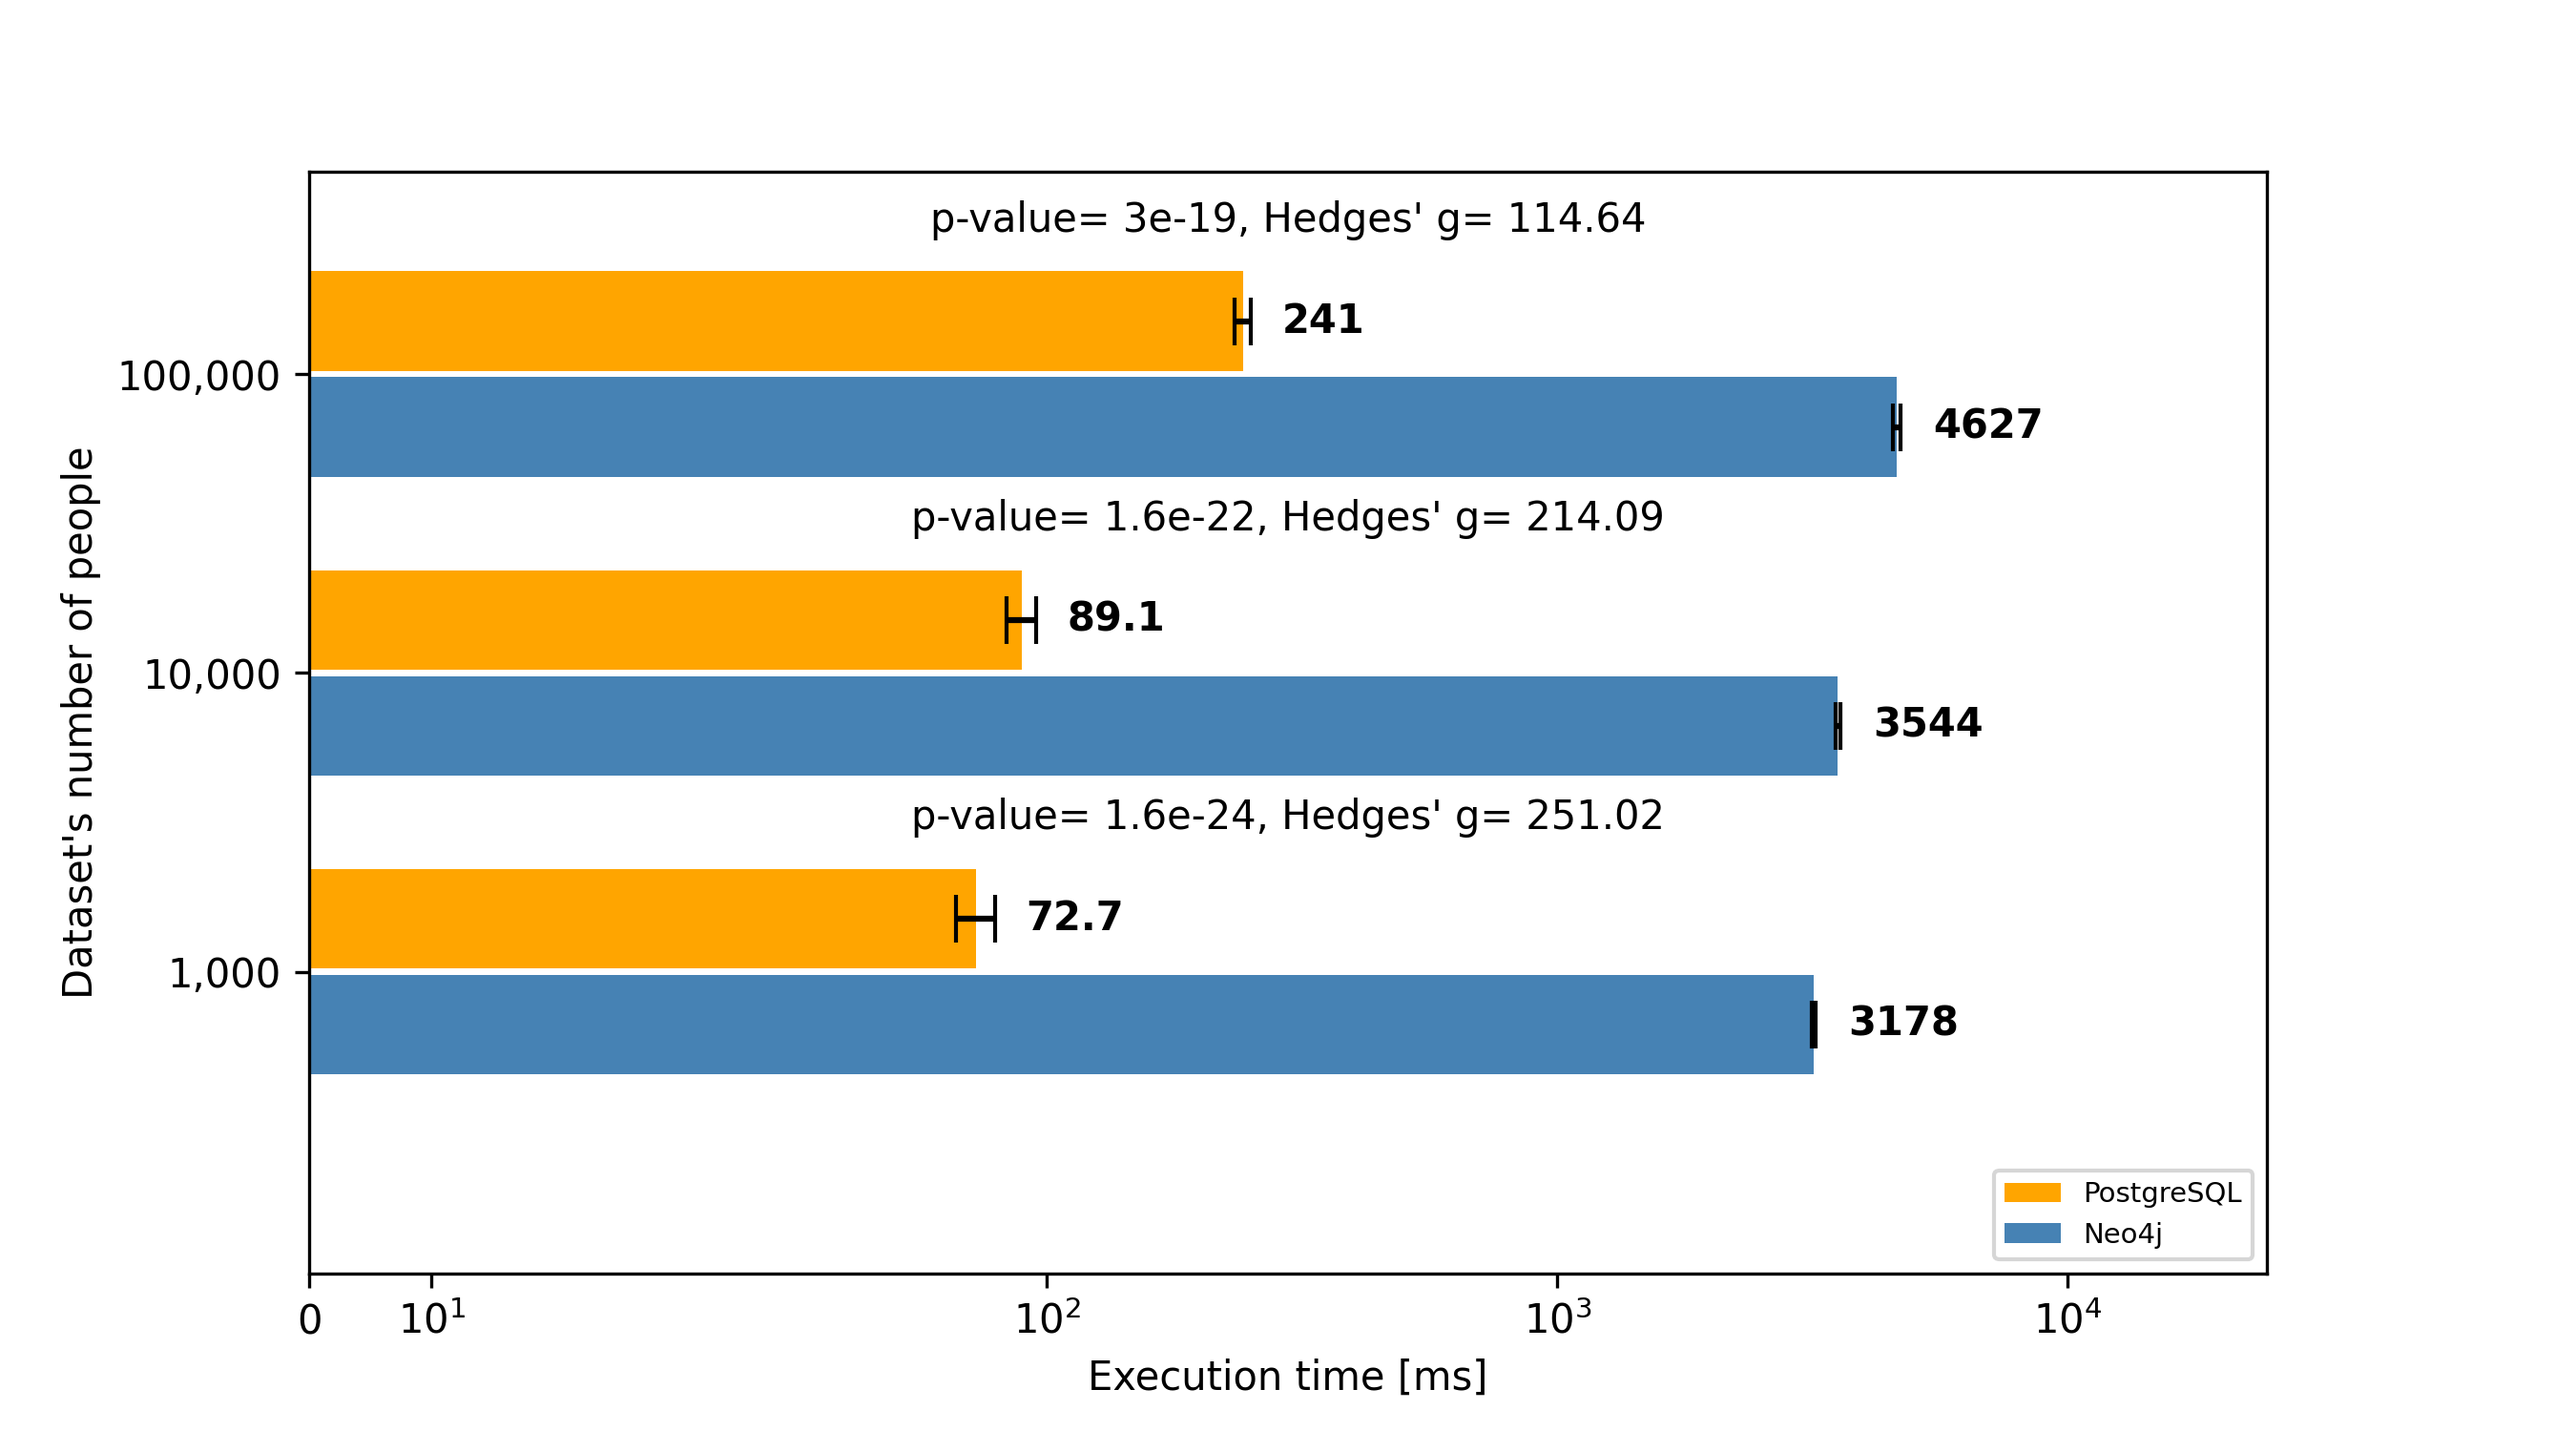
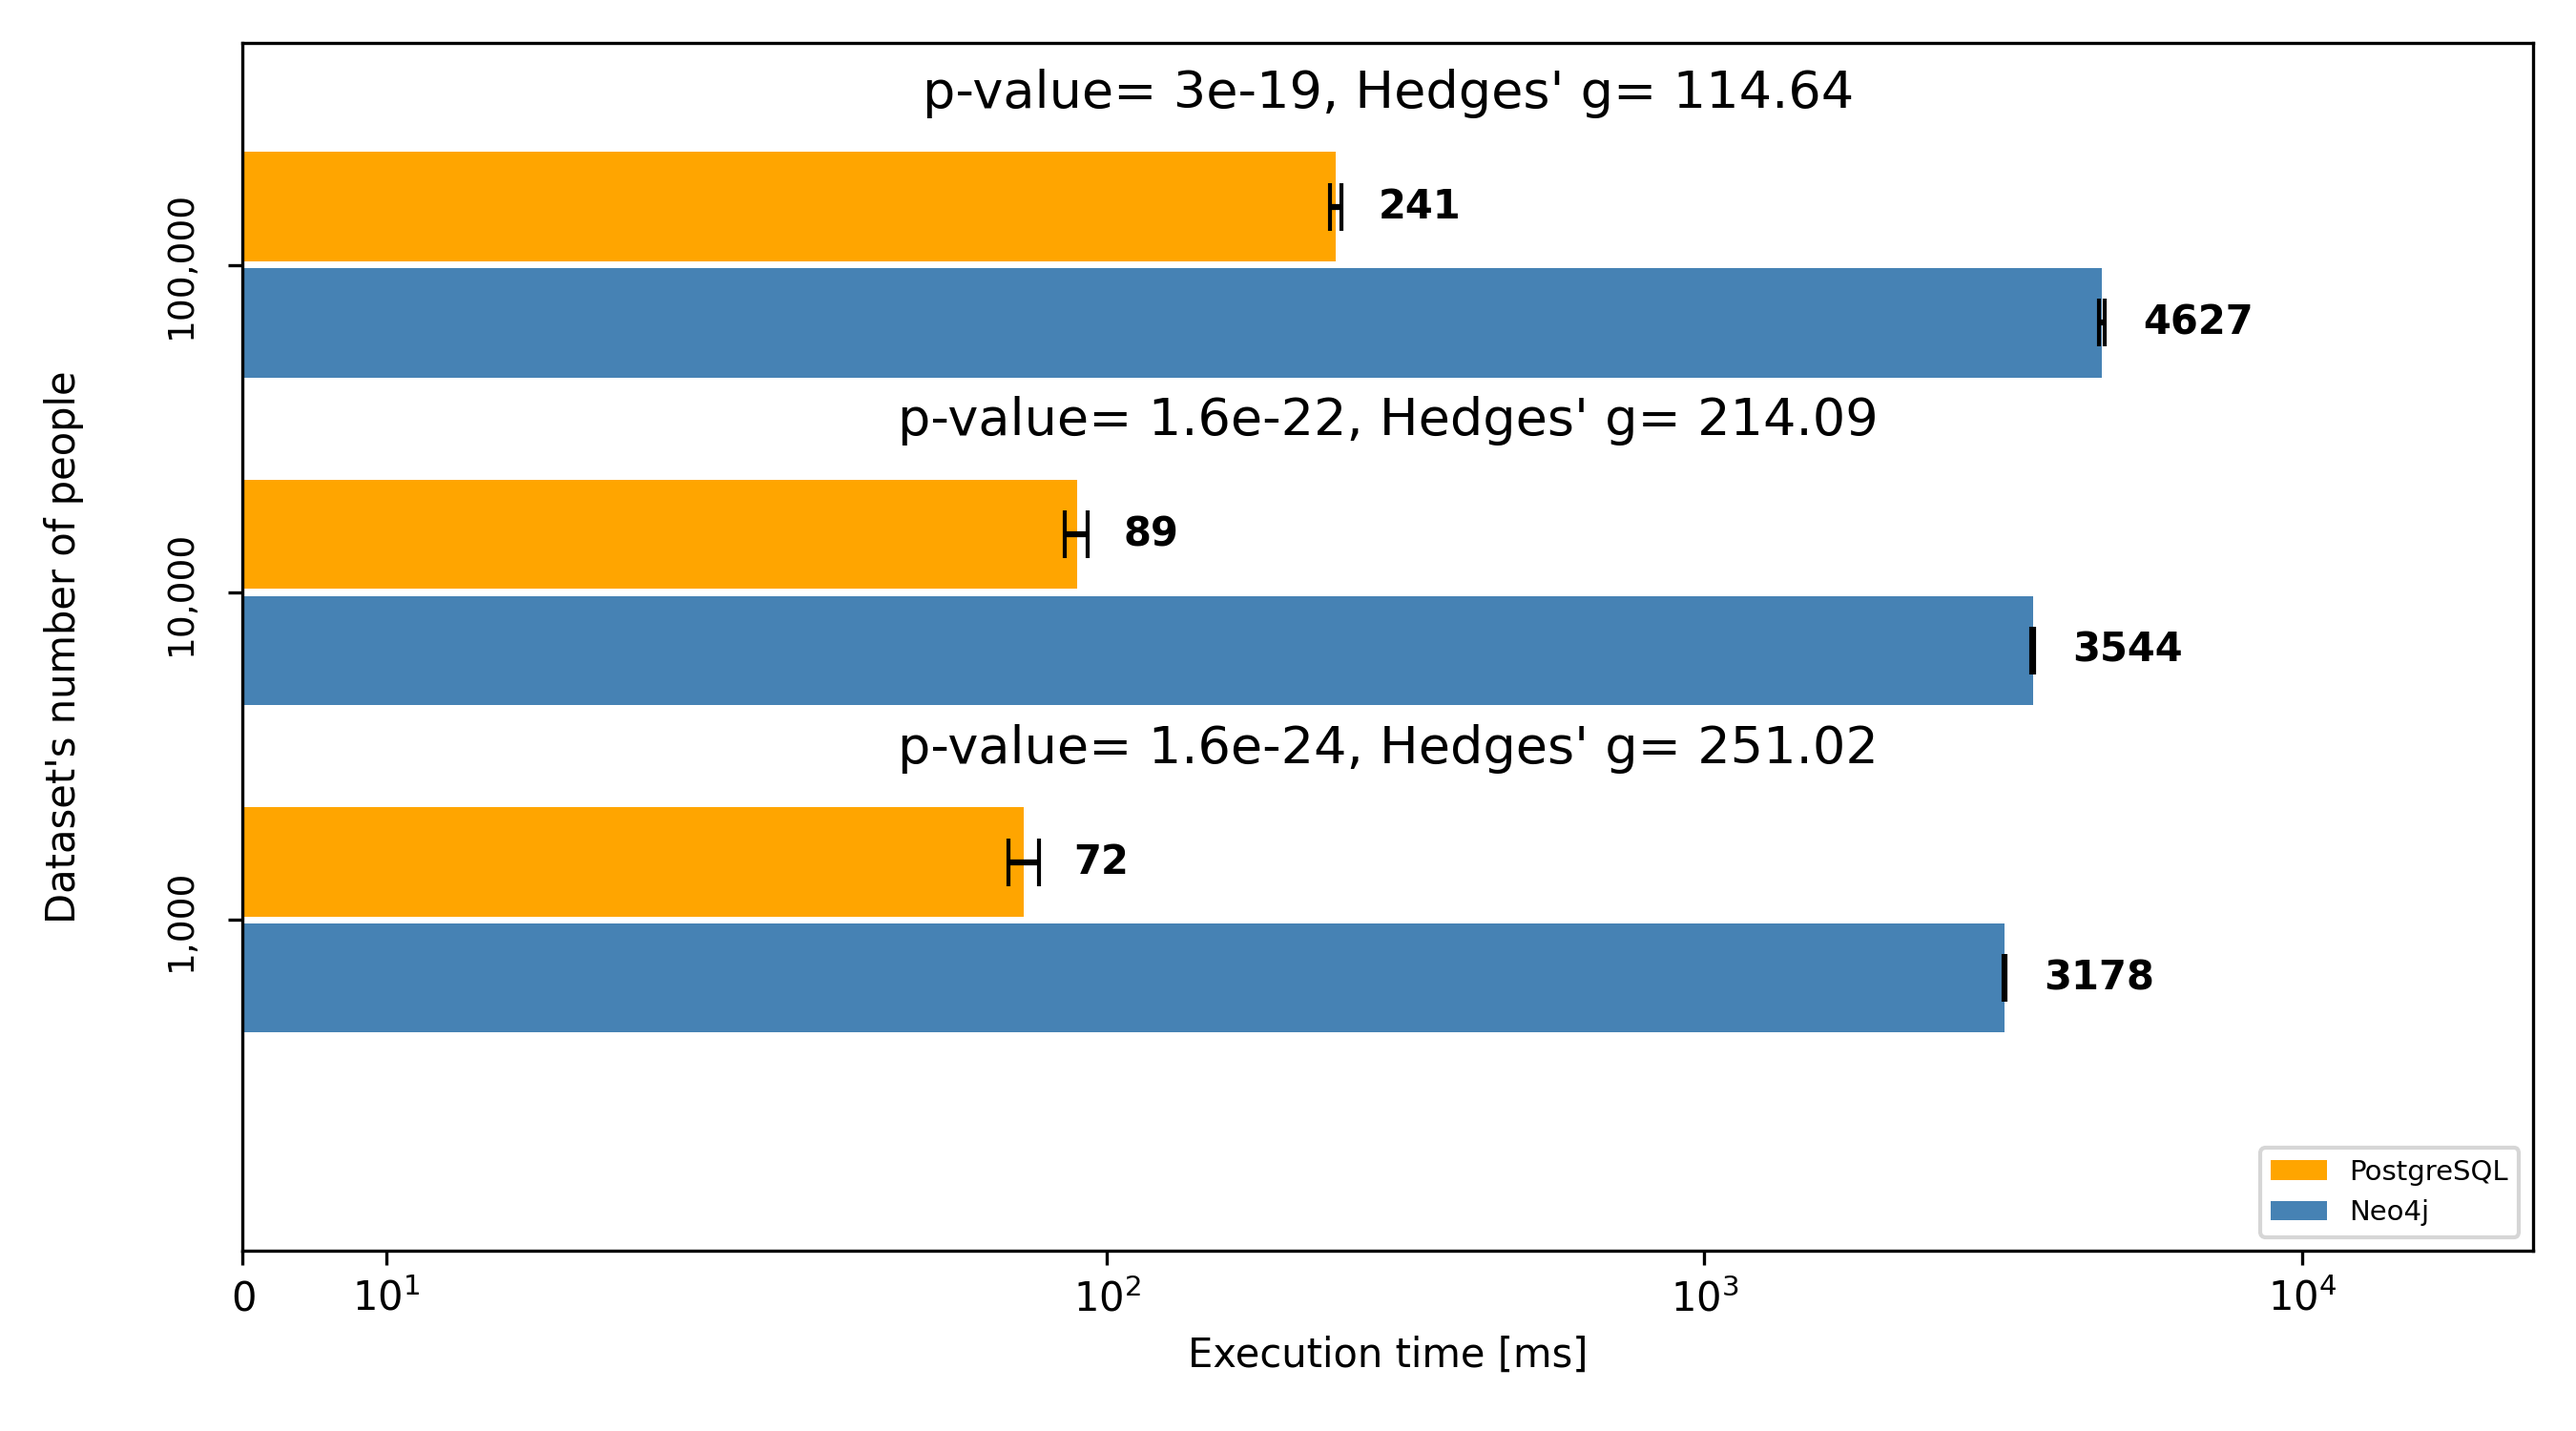
memory calculation method change; plot display change
> 95% CI error display on plots
> proper import of mem data

diff --git a/analysis_scr/scr.py b/analysis_scr/scr.py
@@ -66,8 +66,7 @@ def tukey_upper_filter(values, k=1.5, return_mask=False):
     return (filtered, mask) if return_mask else filtered
 
 def summarize_values(values):
-    filtered = tukey_upper_filter(values)
-    n = len(filtered)
+    n = len(values)
 
     if n == 0:
         return {
@@ -77,9 +76,9 @@ def summarize_values(values):
             "std": np.nan,
         }
 
-    mean = np.mean(filtered)
+    mean = np.mean(values)
 
-    std = np.std(filtered, ddof=1) if n > 1 else 0.0
+    std = np.std(values, ddof=1) if n > 1 else 0.0
 
     error = std / np.sqrt(n) if n > 1 else 0.0
 
@@ -89,19 +88,6 @@ def summarize_values(values):
         "error": error,
         "std": std,
     }
-
-def remove_outliers_from_dataframe(df, value_column="mean", k=1.5):
-    values = df[value_column].to_numpy(dtype=float)
-
-    finite_mask = np.isfinite(values)
-    filtered_values, retained_mask = tukey_upper_filter(
-        values[finite_mask], k=k, return_mask=True
-    )
-
-    full_mask = np.zeros(len(df), dtype=bool)
-    full_mask[np.where(finite_mask)[0]] = retained_mask
-
-    return df.loc[full_mask].reset_index(drop=True)
 
 def load_raw_folder(pattern, n_files, value_column=4):
     if value_column not in (4, 5):
@@ -124,7 +110,38 @@ def load_raw_folder(pattern, n_files, value_column=4):
                     f"cannot read column {value_column}."
                 )
 
-            series = pd.to_numeric(df.iloc[:, col_idx], errors="coerce").dropna()
+
+            iterations = pd.to_numeric(df.iloc[:, 0], errors="coerce")
+
+
+            df = df[(iterations >= 11) & (iterations <= 41)].copy()
+
+            type_col = df.iloc[:, 2].astype(str)
+
+            selected_parts = []
+
+            for iteration in range(11, 42):
+                iter_df = df[df.iloc[:, 0] == iteration]
+
+                if iter_df.empty:
+                    continue
+
+
+                measurements = iter_df[iter_df.iloc[:, 2].astype(str) == "Measurement"]
+
+
+                abc_rows = iter_df[iter_df.iloc[:, 2].astype(str) == "IterationCleanup"]
+                first_abc = abc_rows.iloc[[0]] if not abc_rows.empty else iter_df.iloc[0:0]
+
+                selected_parts.append(measurements)
+                selected_parts.append(first_abc)
+
+            selected = pd.concat(selected_parts, ignore_index=True)
+
+            series = pd.to_numeric(
+                selected.iloc[:, col_idx],
+                errors="coerce"
+            ).dropna()
 
             if series.empty:
                 raise ValueError(
@@ -178,12 +195,19 @@ def load_summary_folder(pattern, n):
         try:
             df = pd.read_csv(path)
             row = df.iloc[0]
+
+            n_samp = int(row["IterationCount"])
+            mean = parse_with_unit(row["Mean"])
+            std = parse_with_unit(row["StdDev"])
+            tcrit = t_dist.ppf(0.975, n_samp -1)
+            ci95 = tcrit * std / np.sqrt(n_samp)
+
             results.append({
                 "file": path.name,
-                "n": int(row["IterationCount"]),
-                "mean": parse_with_unit(row["Mean"]),
-                "error": parse_with_unit(row["Error"]),
-                "std": parse_with_unit(row["StdDev"])
+                "n": n_samp,
+                "mean": mean,
+                "error": ci95,
+                "std": std
             })
         except Exception as e:
             print(f"Failed to load {path}: {e}")
@@ -289,10 +313,7 @@ def plot_multi_benchmark_report(
     os.makedirs(output_dir, exist_ok=True)
 
     def fmt_sig(x):
-        if abs(x) < 10:
-            return f"{x:.1f}"
-        else:
-            return f"{x:g}"
+        return f"{x:.1f}"
 
     def _plot(font_offset=0, show_stats=True, suffix=""):
         n_pairs = len(dtrps)
@@ -316,7 +337,7 @@ def plot_multi_benchmark_report(
 
                 unit, scale = choose_display_unit(flat_values)
 
-                all_means, all_errs = [], []
+                all_means, all_errs, all_stds = [], [], []
                 y_positions, pair_centers = [], []
 
                 colors = {"n4j": "steelblue", "pst": "orange"}
@@ -332,6 +353,8 @@ def plot_multi_benchmark_report(
                     mean_B = row["mean_B"] * scale
                     err_A = row["error_A"] * scale
                     err_B = row["error_B"] * scale
+                    std_A = row["std_A"] * scale
+                    std_B = row["std_B"] * scale
 
                     y_A = y
                     y_B = y + inner_gap
@@ -341,28 +364,32 @@ def plot_multi_benchmark_report(
 
                     all_means += [mean_A, mean_B]
                     all_errs += [err_A, err_B]
+                    all_stds += [std_A, std_B]
 
                     y += group_gap
 
                 bars = ax.barh(
                     y_positions,
                     all_means,
-                    xerr=all_errs,
+                    xerr=all_stds,
                     capsize=6,
                     color=[colors["n4j"], colors["pst"]] * n_pairs
                 )
 
-                ax.set_xscale("symlog", linthresh=max(all_means) * 0.01)
+                if i in (1, 2, 7, 8):
+                    ax.set_xscale("linear")
+                else:
+                    ax.set_xscale("symlog", linthresh=max(all_means) * 0.01)
                 ax.margins(x=0.23, y=0.15)
                 ax.set_xlim(left=0)
 
                 for bar, mean, err in zip(bars, all_means, all_errs):
-                    x = bar.get_width() + err + (bar.get_width() * 0.16)
+                    x = bar.get_width() + err*1.2 + (bar.get_width() * 0.16)
                     y = bar.get_y() + bar.get_height() / 2
 
                     ax.text(
                         x, y,
-                        f"{mean:.1f}" if mean < 100 else f"{int(mean)}",
+                        f"{mean:.1f}" if not importDt else f"{int(mean)}",
                         ha="left",
                         va="center",
                         fontsize=10 + font_offset,
@@ -394,7 +421,7 @@ def plot_multi_benchmark_report(
                             transform=ax.get_yaxis_transform(),
                             ha="center",
                             va="bottom",
-                            fontsize=10 + font_offset,
+                            fontsize=13 + font_offset,
                             bbox=dict(
                                 facecolor="white",
                                 edgecolor="none",
@@ -406,9 +433,13 @@ def plot_multi_benchmark_report(
                 extra_space = group_gap * 0.5
 
                 ax.set_ylim(-2, y + extra_space)
-                ax.set_ylabel("Dataset's number of people")
+                ax.set_ylabel("Dataset's number of people", labelpad= 20)
                 ax.set_yticks(pair_centers)
-                ax.set_yticklabels(dataset_nums_short)
+                ax.set_yticklabels(dataset_nums_short,
+                                   rotation=90,
+                                   va="center",
+                                   ha="center")
+                ax.tick_params(axis="y", pad=12, labelsize = font_offset + 9)
                 ax.set_xlabel(f"Execution time [{unit}]")
 
                 legend_elements = [
@@ -416,20 +447,20 @@ def plot_multi_benchmark_report(
                     Patch(facecolor=colors["n4j"], label="Neo4j"),
                 ]
 
-                ax.legend(handles=legend_elements, loc="lower right", fontsize=7)
+                ax.legend(handles=legend_elements, loc="lower right", fontsize= 13 if font_offset > 0 else 7)
 
                 if importDt:
                     filename = os.path.join(output_dir, f"import_{suffix}.{fmt}")
                 else:
                     filename = os.path.join(output_dir, f"task_{i+1}_{suffix}.{fmt}")
 
-                plt.subplots_adjust(left=0.12, right=0.88)
+                plt.tight_layout()
                 plt.savefig(filename, dpi=300 + 50 * font_offset)
                 plt.close()
 
     _plot(font_offset=0, show_stats=True, suffix="default")
 
-    _plot(font_offset=2, show_stats=False, suffix="scaled")
+    _plot(font_offset=7, show_stats=False, suffix="scaled")
 
     print(f"Saved scaled + default plots to {output_dir}/")
 
